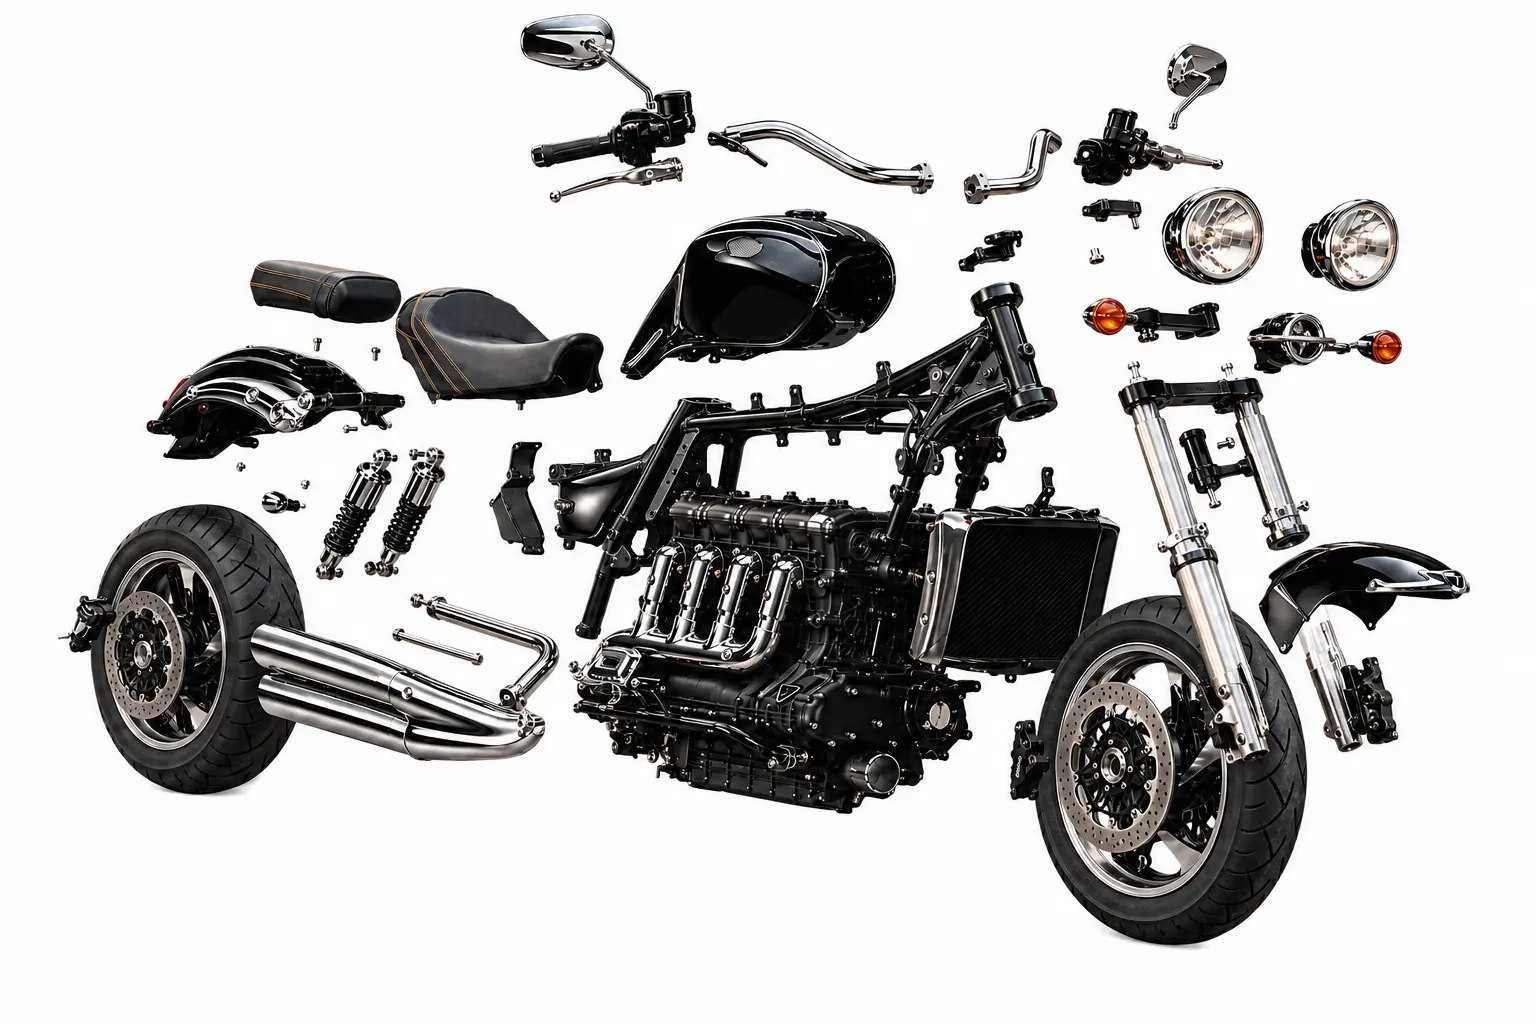
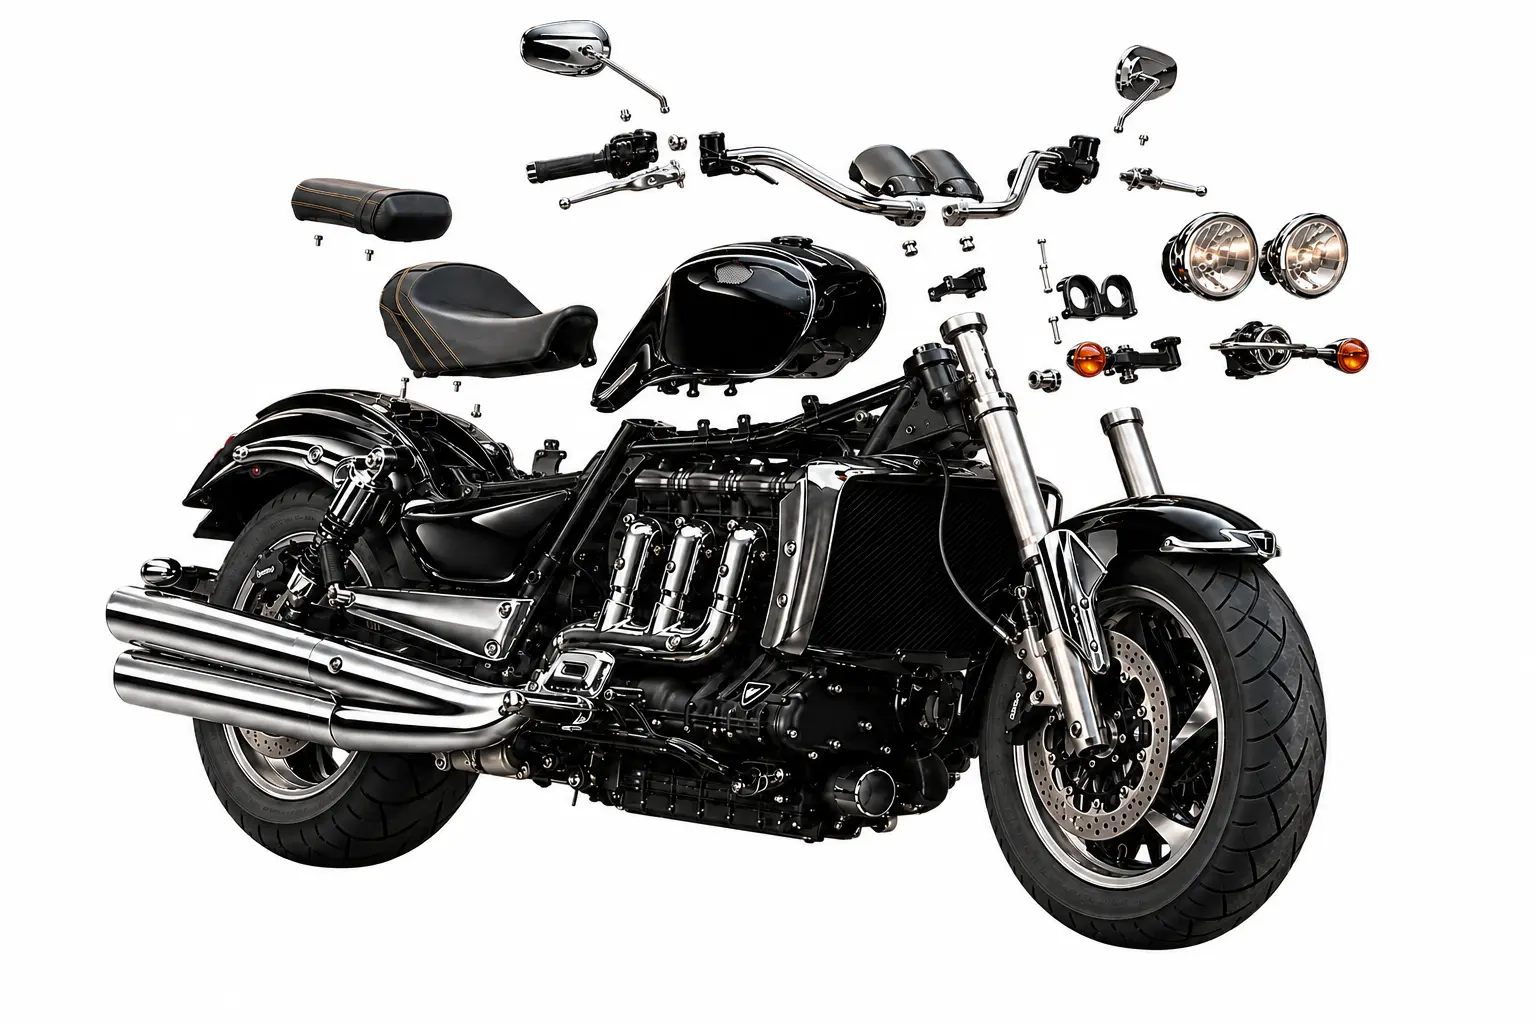
Refine ExplodeView staging and smooth playback

diff --git a/explodeview-rocket-demo/index.html b/explodeview-rocket-demo/index.html
@@ -15,7 +15,8 @@
     h1 span{color:var(--blue)}
     .status{text-align:right;color:var(--muted);font-variant-numeric:tabular-nums}
     .stage{position:relative;overflow:hidden;border-radius:20px;background:#fff;box-shadow:0 22px 65px #0009,0 0 0 1px #57bff344;touch-action:none;user-select:none;cursor:ew-resize;aspect-ratio:3/2}
-    .stage img{display:block;width:100%;height:100%;object-fit:contain;pointer-events:none}
+    .stage img{position:absolute;inset:0;display:block;width:100%;height:100%;object-fit:contain;pointer-events:none;will-change:opacity}
+    #frameB{opacity:0}
     .hint{position:absolute;left:50%;bottom:14px;transform:translateX(-50%);padding:8px 12px;border-radius:999px;background:#061019c9;color:#fff;font-size:13px;backdrop-filter:blur(8px);transition:opacity .25s;white-space:nowrap}
     .stage.active .hint{opacity:0}
     .controls{display:grid;grid-template-columns:auto 1fr auto;gap:12px;align-items:center;margin-top:14px;padding:12px;border-radius:18px;background:#0c1721df;border:1px solid #ffffff17}
@@ -36,12 +37,13 @@
       <div class="status"><strong id="viewLabel">Vue 1 / 9</strong><br><span id="stateLabel">Moto assemblée</span></div>
     </header>
     <section class="stage" id="stage" aria-label="Simulation ExplodeView tactile">
-      <img id="frame" src="vue-01.webp" alt="Rocket 3 assemblée">
+      <img id="frameA" src="vue-01.webp" alt="Rocket 3 assemblée">
+      <img id="frameB" src="vue-02.webp" alt="" aria-hidden="true">
       <div class="hint">Glissez horizontalement sur l’image</div>
     </section>
     <div class="controls">
       <button class="primary" id="play" type="button">▶ Lecture</button>
-      <input id="scrub" type="range" min="1" max="9" step="1" value="1" aria-label="Choisir une vue">
+      <input id="scrub" type="range" min="0" max="8" step="0.01" value="0" aria-label="Balayer continuellement les neuf vues">
       <button id="full" type="button">⛶ Plein écran</button>
     </div>
     <div class="dots" id="dots" aria-label="Navigation entre les neuf vues"></div>
@@ -50,9 +52,10 @@
   <script>
     const total=9;
     const paths=Array.from({length:total},(_,i)=>`vue-${String(i+1).padStart(2,'0')}.webp`);
-    const states=['Moto assemblée','Début de séparation','Séparation partielle','Train avant dégagé','Moteur en dégagement','Éclatement général','Composants dispersés','Vue presque totale','Vue éclatée complète'];
+    const states=['Moto assemblée','Selle passager et rétroviseurs','Sièges, commandes et éclairage','Roues et train avant','Échappements et suspensions','Réservoir et radiateur','Moteur sorti du châssis','Petites pièces libérées','Vue éclatée complète'];
     paths.forEach(src=>{const image=new Image();image.src=src});
-    const frame=document.querySelector('#frame');
+    const frameA=document.querySelector('#frameA');
+    const frameB=document.querySelector('#frameB');
     const stage=document.querySelector('#stage');
     const scrub=document.querySelector('#scrub');
     const play=document.querySelector('#play');
@@ -60,28 +63,42 @@
     const viewLabel=document.querySelector('#viewLabel');
     const stateLabel=document.querySelector('#stateLabel');
     const dots=document.querySelector('#dots');
-    let index=0,timer=null,direction=1;
-    const dotButtons=paths.map((_,i)=>{const b=document.createElement('button');b.type='button';b.ariaLabel=`Vue ${i+1}`;b.addEventListener('click',()=>show(i));dots.append(b);return b});
-    function show(next){
-      index=Math.max(0,Math.min(total-1,next));
-      frame.src=paths[index];frame.alt=states[index];scrub.value=index+1;
-      viewLabel.textContent=`Vue ${index+1} / ${total}`;stateLabel.textContent=states[index];
-      dotButtons.forEach((b,i)=>b.setAttribute('aria-current',i===index?'true':'false'));
+    let position=0,animation=null,startedAt=0;
+    const dotButtons=paths.map((_,i)=>{const b=document.createElement('button');b.type='button';b.ariaLabel=`Vue ${i+1}`;b.addEventListener('click',()=>{stop();render(i)});dots.append(b);return b});
+    function render(next){
+      position=Math.max(0,Math.min(total-1,next));
+      const lower=Math.floor(position);
+      const upper=Math.min(total-1,lower+1);
+      const blend=upper===lower?0:position-lower;
+      if(frameA.dataset.index!==String(lower)){frameA.src=paths[lower];frameA.dataset.index=lower}
+      if(frameB.dataset.index!==String(upper)){frameB.src=paths[upper];frameB.dataset.index=upper}
+      frameB.style.opacity=blend.toFixed(3);
+      const nearest=Math.round(position);
+      frameA.alt=states[nearest];scrub.value=position;
+      viewLabel.textContent=`Vue ${nearest+1} / ${total}`;stateLabel.textContent=states[nearest];
+      dotButtons.forEach((b,i)=>b.setAttribute('aria-current',i===nearest?'true':'false'));
     }
-    function stop(){clearInterval(timer);timer=null;play.textContent='▶ Lecture'}
+    function stop(){if(animation)cancelAnimationFrame(animation);animation=null;play.textContent='▶ Lecture'}
     function start(){
-      stop();play.textContent='⏸ Pause';direction=index===total-1?-1:1;
-      timer=setInterval(()=>{if(index===total-1)direction=-1;if(index===0)direction=1;show(index+direction)},520);
+      stop();play.textContent='⏸ Pause';
+      const phase=Math.acos(1-(position/(total-1))*2)/(Math.PI*2);
+      startedAt=performance.now()-phase*12000;
+      const animate=now=>{
+        const cycle=((now-startedAt)%12000)/12000;
+        render((1-Math.cos(cycle*Math.PI*2))*.5*(total-1));
+        animation=requestAnimationFrame(animate);
+      };
+      animation=requestAnimationFrame(animate);
     }
-    play.addEventListener('click',()=>timer?stop():start());
-    scrub.addEventListener('input',e=>{stop();show(Number(e.target.value)-1)});
-    function pointerToFrame(e){const r=stage.getBoundingClientRect();show(Math.round(Math.max(0,Math.min(1,(e.clientX-r.left)/r.width))*(total-1)))}
+    play.addEventListener('click',()=>animation?stop():start());
+    scrub.addEventListener('input',e=>{stop();render(Number(e.target.value))});
+    function pointerToFrame(e){const r=stage.getBoundingClientRect();render(Math.max(0,Math.min(1,(e.clientX-r.left)/r.width))*(total-1))}
     stage.addEventListener('pointerdown',e=>{stop();stage.setPointerCapture(e.pointerId);stage.classList.add('active');pointerToFrame(e)});
     stage.addEventListener('pointermove',e=>{if(stage.hasPointerCapture(e.pointerId))pointerToFrame(e)});
     stage.addEventListener('pointerup',e=>{stage.releasePointerCapture(e.pointerId);stage.classList.remove('active')});
     full.addEventListener('click',()=>stage.requestFullscreen?.());
-    document.addEventListener('keydown',e=>{if(e.key==='ArrowRight'){stop();show(index+1)}if(e.key==='ArrowLeft'){stop();show(index-1)}if(e.key===' '){e.preventDefault();timer?stop():start()}});
-    show(0);
+    document.addEventListener('keydown',e=>{if(e.key==='ArrowRight'){stop();render(Math.round(position)+1)}if(e.key==='ArrowLeft'){stop();render(Math.round(position)-1)}if(e.key===' '){e.preventDefault();animation?stop():start()}});
+    render(0);
   </script>
 </body>
 </html>
